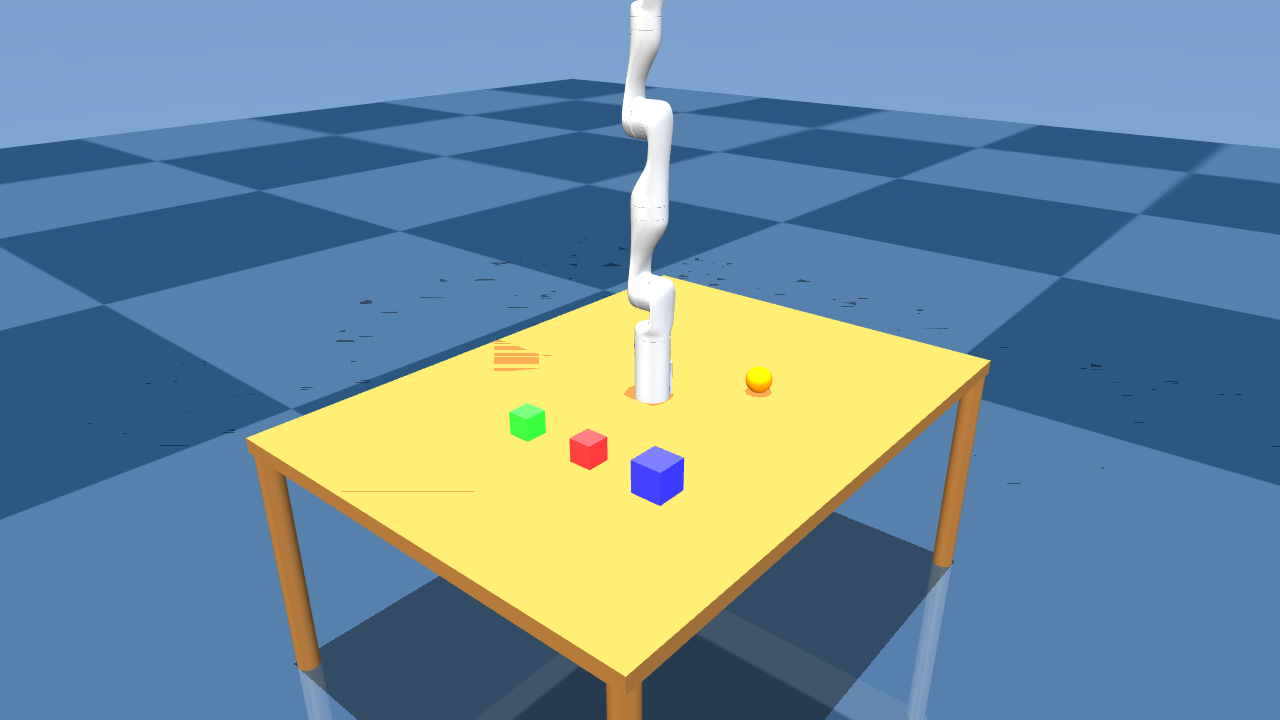
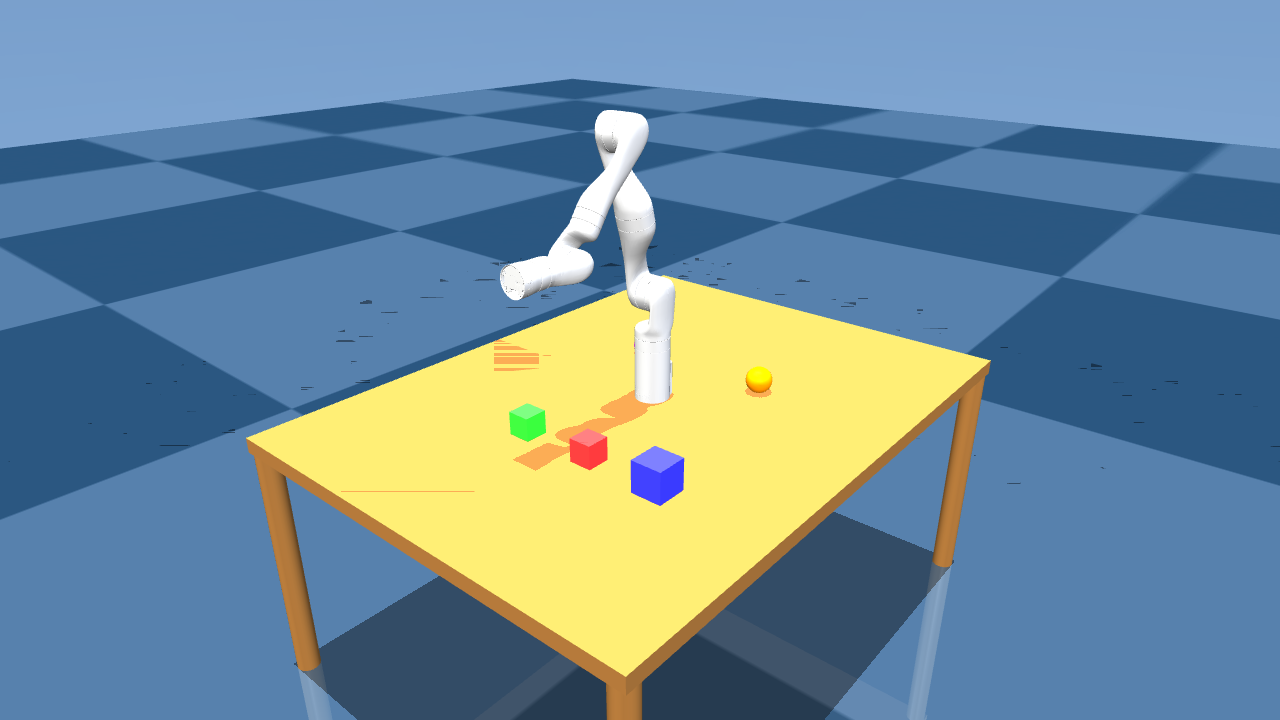
Fix CI test failures, table scene home pose, menagerie-missing guard
CI (test_init and all URDF-based tests failing):
  Default URDF path was "../assets/..." (relative to build/). CI runs tests
  from repo root, so the path resolved one level above the repo. Fixed by
  computing the path from __FILE__ (same repo_root() pattern used by
  menagerie tests) in test_init, test_velocity, test_gravity_comp,
  test_dual_arm, test_table_scene.

CI workflow:
  Restored all 9 test steps. Menagerie-based tests now self-skip when
  third_party/menagerie/ is absent (gitignored in CI) instead of being
  omitted from the workflow entirely.

Menagerie-missing guard (test_kinova_gen3_{menagerie,gripper,impedance,pick}):
  Check fs::exists(root/"third_party/menagerie") at startup; print a clear
  SKIP message and exit 0 so CI doesn't fail on missing assets.

Table scene home pose:
  render_table_scene.py was looking up joint_1..joint_7 but the URDF-built
  model uses Actuator1..Actuator7. Fixed the name lookup; regenerated image.

https://claude.ai/code/session_01HfdqK61i2LNqxcqDRCP2XA

Changed region(s): [[0.375, 0.0, 0.5312, 0.4278], [0.4062, 0.55, 0.5312, 0.6722]]

diff --git a/test/test_dual_arm.cpp b/test/test_dual_arm.cpp
@@ -19,6 +19,7 @@
 #include <iomanip>
 #include <cmath>
 #include <string>
+#include <filesystem>
 
 static constexpr double kHomePose[7] = {0.0, 0.2618, 3.1416, -2.2689, 0.0, 0.9599, 1.5708};
 
@@ -32,9 +33,12 @@ static void apply_grav_comp(mj_kdl::State* s, KDL::ChainDynParam& dyn)
     mj_kdl::set_torques(s, g);
 }
 
+namespace fs = std::filesystem;
+static fs::path repo_root() { return fs::path(__FILE__).parent_path().parent_path(); }
+
 int main(int argc, char* argv[])
 {
-    std::string urdf = "../assets/gen3_urdf/GEN3_URDF_V12.urdf";
+    std::string urdf = (repo_root() / "assets/gen3_urdf/GEN3_URDF_V12.urdf").string();
     bool gui = false;
     for (int i = 1; i < argc; ++i) {
         std::string a(argv[i]);

diff --git a/test/test_kinova_gen3_gripper.cpp b/test/test_kinova_gen3_gripper.cpp
@@ -79,6 +79,10 @@ int main(int argc, char* argv[])
         if (std::string(argv[i]) == "--gui") gui = true;
 
     const fs::path root        = repo_root();
+    if (!fs::exists(root / "third_party/menagerie")) {
+        std::cerr << "SKIP: third_party/menagerie/ not found (gitignored). Run locally with the submodule.\n";
+        return 0;
+    }
     const std::string arm_mjcf  = (root / "third_party/menagerie/kinova_gen3/gen3.xml").string();
     const std::string grp_mjcf  = (root / "third_party/menagerie/robotiq_2f85/2f85.xml").string();
     const std::string combined  = (root / "/tmp/gen3_with_2f85.xml").string();

diff --git a/test/test_kinova_gen3_impedance.cpp b/test/test_kinova_gen3_impedance.cpp
@@ -81,6 +81,10 @@ int main(int argc, char* argv[])
         if (std::string(argv[i]) == "--gui") gui = true;
 
     const fs::path root       = repo_root();
+    if (!fs::exists(root / "third_party/menagerie")) {
+        std::cerr << "SKIP: third_party/menagerie/ not found (gitignored). Run locally with the submodule.\n";
+        return 0;
+    }
     const std::string arm_mjcf = (root / "third_party/menagerie/kinova_gen3/gen3.xml").string();
     const std::string grp_mjcf = (root / "third_party/menagerie/robotiq_2f85/2f85.xml").string();
     const std::string combined = "/tmp/gen3_with_2f85_impedance.xml";

diff --git a/test/test_kinova_gen3_pick.cpp b/test/test_kinova_gen3_pick.cpp
@@ -152,6 +152,10 @@ int main(int argc, char* argv[])
         if (std::string(argv[i]) == "--gui") gui = true;
 
     const fs::path root       = repo_root();
+    if (!fs::exists(root / "third_party/menagerie")) {
+        std::cerr << "SKIP: third_party/menagerie/ not found (gitignored). Run locally with the submodule.\n";
+        return 0;
+    }
     const std::string arm_mjcf = (root / "third_party/menagerie/kinova_gen3/gen3.xml").string();
     const std::string grp_mjcf = (root / "third_party/menagerie/robotiq_2f85/2f85.xml").string();
     const std::string combined = "/tmp/gen3_with_2f85_pick.xml";

diff --git a/test/test_table_scene.cpp b/test/test_table_scene.cpp
@@ -16,12 +16,16 @@
 #include <iostream>
 #include <iomanip>
 #include <string>
+#include <filesystem>
 
 static constexpr double kHomePose[7] = {0.0, 0.2618, 3.1416, -2.2689, 0.0, 0.9599, 1.5708};
 
+namespace fs = std::filesystem;
+static fs::path repo_root() { return fs::path(__FILE__).parent_path().parent_path(); }
+
 int main(int argc, char* argv[])
 {
-    std::string urdf = "../assets/gen3_urdf/GEN3_URDF_V12.urdf";
+    std::string urdf = (repo_root() / "assets/gen3_urdf/GEN3_URDF_V12.urdf").string();
     bool gui = false;
     for (int i = 1; i < argc; ++i) {
         std::string a(argv[i]);

diff --git a/test/test_velocity.cpp b/test/test_velocity.cpp
@@ -15,12 +15,16 @@
 #include <iostream>
 #include <iomanip>
 #include <string>
+#include <filesystem>
 
 static constexpr double kHomePose[7] = {0.0, 0.2618, 3.1416, -2.2689, 0.0, 0.9599, 1.5708};
 
+namespace fs = std::filesystem;
+static fs::path repo_root() { return fs::path(__FILE__).parent_path().parent_path(); }
+
 int main(int argc, char* argv[])
 {
-    std::string urdf = "../assets/gen3_urdf/GEN3_URDF_V12.urdf";
+    std::string urdf = (repo_root() / "assets/gen3_urdf/GEN3_URDF_V12.urdf").string();
     bool gui = false;
     for (int i = 1; i < argc; ++i) {
         std::string a(argv[i]);

diff --git a/test/test_gravity_comp.cpp b/test/test_gravity_comp.cpp
@@ -21,12 +21,16 @@
 #include <iomanip>
 #include <cmath>
 #include <string>
+#include <filesystem>
 
 static constexpr double kHomePose[7] = {0.0, 0.2618, 3.1416, -2.2689, 0.0, 0.9599, 1.5708};
 
+namespace fs = std::filesystem;
+static fs::path repo_root() { return fs::path(__FILE__).parent_path().parent_path(); }
+
 int main(int argc, char* argv[])
 {
-    std::string urdf = "../assets/gen3_urdf/GEN3_URDF_V12.urdf";
+    std::string urdf = (repo_root() / "assets/gen3_urdf/GEN3_URDF_V12.urdf").string();
     bool gui = false;
     for (int i = 1; i < argc; ++i) {
         std::string a(argv[i]);

diff --git a/test/test_init.cpp b/test/test_init.cpp
@@ -8,12 +8,16 @@
 
 #include <iostream>
 #include <string>
+#include <filesystem>
 
 static constexpr double kHomePose[7] = {0.0, 0.2618, 3.1416, -2.2689, 0.0, 0.9599, 1.5708};
 
+namespace fs = std::filesystem;
+static fs::path repo_root() { return fs::path(__FILE__).parent_path().parent_path(); }
+
 int main(int argc, char* argv[])
 {
-    std::string urdf = "../assets/gen3_urdf/GEN3_URDF_V12.urdf";
+    std::string urdf = (repo_root() / "assets/gen3_urdf/GEN3_URDF_V12.urdf").string();
     bool gui = false;
     for (int i = 1; i < argc; ++i) {
         std::string a(argv[i]);

diff --git a/test/test_kinova_gen3_menagerie.cpp b/test/test_kinova_gen3_menagerie.cpp
@@ -38,6 +38,10 @@ int main(int argc, char* argv[])
         if (std::string(argv[i]) == "--gui") gui = true;
 
     const fs::path root = repo_root();
+    if (!fs::exists(root / "third_party/menagerie")) {
+        std::cerr << "SKIP: third_party/menagerie/ not found (gitignored). Run locally with the submodule.\n";
+        return 0;
+    }
     // scene.xml includes gen3.xml and already has floor, lights, and skybox —
     // no patching or temp file needed.
     const std::string mjcf = (root / "third_party/menagerie/kinova_gen3/scene.xml").string();

diff --git a/tools/render_table_scene.py b/tools/render_table_scene.py
@@ -45,7 +45,7 @@ def main():
 
     # Home pose
     home_rad = [0.0, 0.2618, 3.1416, -2.2689, 0.0, 0.9599, 1.5708]
-    joint_ids = [mujoco.mj_name2id(model, mujoco.mjtObj.mjOBJ_JOINT, f"joint_{i+1}")
+    joint_ids = [mujoco.mj_name2id(model, mujoco.mjtObj.mjOBJ_JOINT, f"Actuator{i+1}")
                  for i in range(7)]
     for jid, rad in zip(joint_ids, home_rad):
         if jid >= 0:
